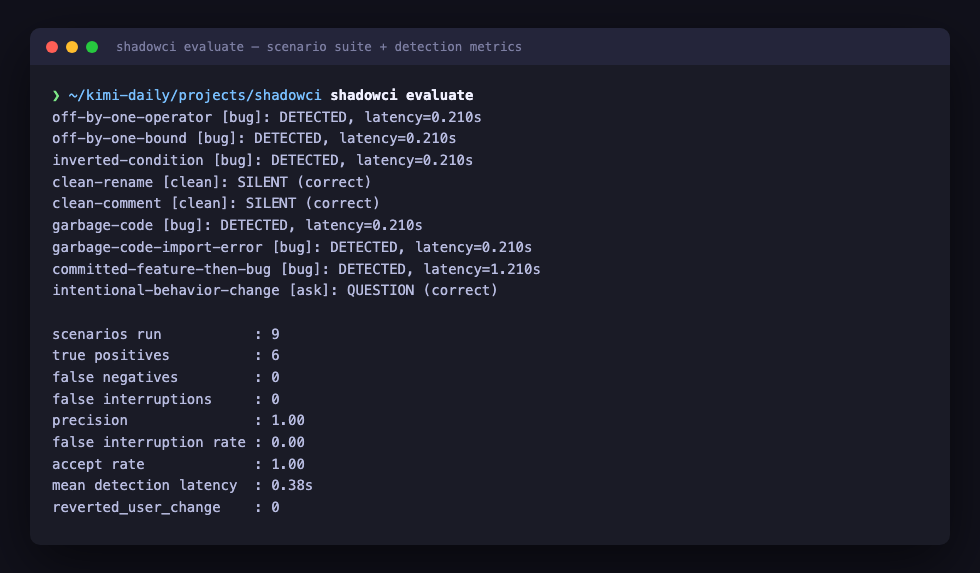
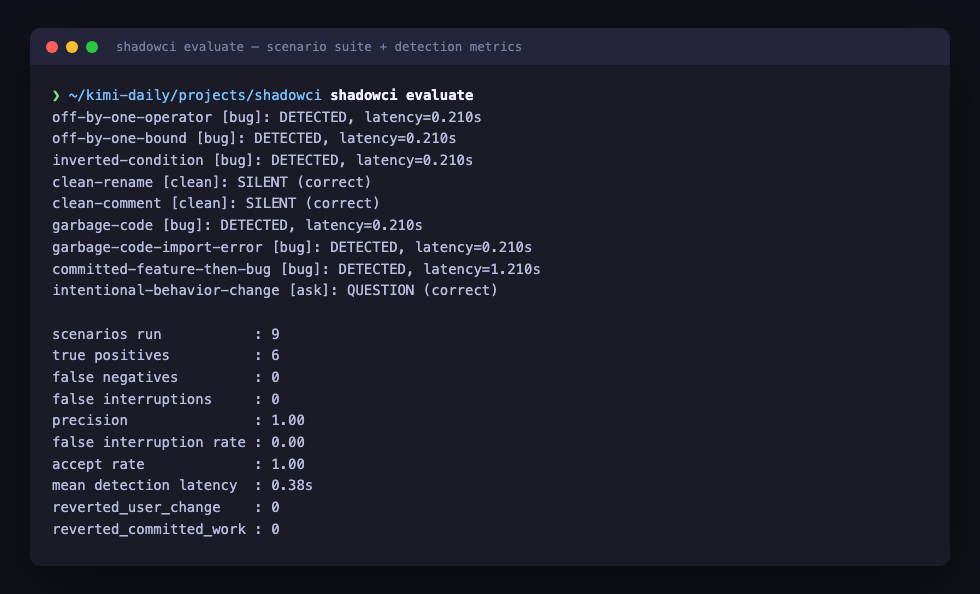
Fix #62: shadowci evaluate never prints the reverted_committed_work metric it computes (#69)
* test: cover issue #62 — evaluate CLI never prints reverted_committed_work

EvaluationReport.reverted_committed_work has been computed since issue #53
but src/shadowci/cli.py's _cmd_evaluate never printed it, so the metric the
README documents never reached users.

* Fix #62: shadowci evaluate never prints reverted_committed_work

The CLI's suite-report path printed reverted_user_change but never read
EvaluationReport.reverted_committed_work, so the metric the README already
documents for the committed-feature-then-bug scenario never reached users.

Changed region(s): [[0.0306, 0.1483, 0.551, 0.9197], [0.0306, 0.0593, 0.551, 0.089]]

diff --git a/tests/test_cli_evaluate.py b/tests/test_cli_evaluate.py
@@ -16,6 +16,7 @@ def test_evaluate_runs_the_built_in_suite_and_reports_metrics(capsys):
     assert "accept rate" in out
     assert "mean detection latency" in out
     assert "reverted_user_change" in out
+    assert "reverted_committed_work" in out
 
 
 def test_evaluate_save_dir_writes_scenario_json_without_running(tmp_path: Path, capsys):
@@ -80,6 +81,19 @@ def test_evaluate_reports_the_intentional_behavior_change_scenario_as_a_correct_
     assert exit_code == 0
     assert "intentional-behavior-change [ask]: QUESTION (correct)" in out
     assert "reverted_user_change    : 0" in out
+
+
+def test_evaluate_reports_reverted_committed_work(capsys):
+    # Issue #62: the harness has computed EvaluationReport.reverted_committed_work
+    # since issue #53 (see tests/test_evaluation_commit_step.py), but the CLI's
+    # suite-report path never printed it, so the metric the README documents
+    # for the committed-feature-then-bug scenario never reached users.
+    exit_code = main(["evaluate"])
+    out = capsys.readouterr().out
+
+    assert exit_code == 0
+    assert "reverted_committed_work" in out
+    assert "reverted_committed_work : 0" in out
 
 
 def test_evaluate_repeat_reports_policy_convergence(capsys):

diff --git a/src/shadowci/cli.py b/src/shadowci/cli.py
@@ -527,6 +527,7 @@ def _cmd_evaluate(args: argparse.Namespace) -> int:
         f"{_format_metric(report.mean_detection_latency_seconds, suffix='s')}"
     )
     print(f"reverted_user_change    : {report.reverted_user_change}")
+    print(f"reverted_committed_work : {report.reverted_committed_work}")
     return 0
 
 
